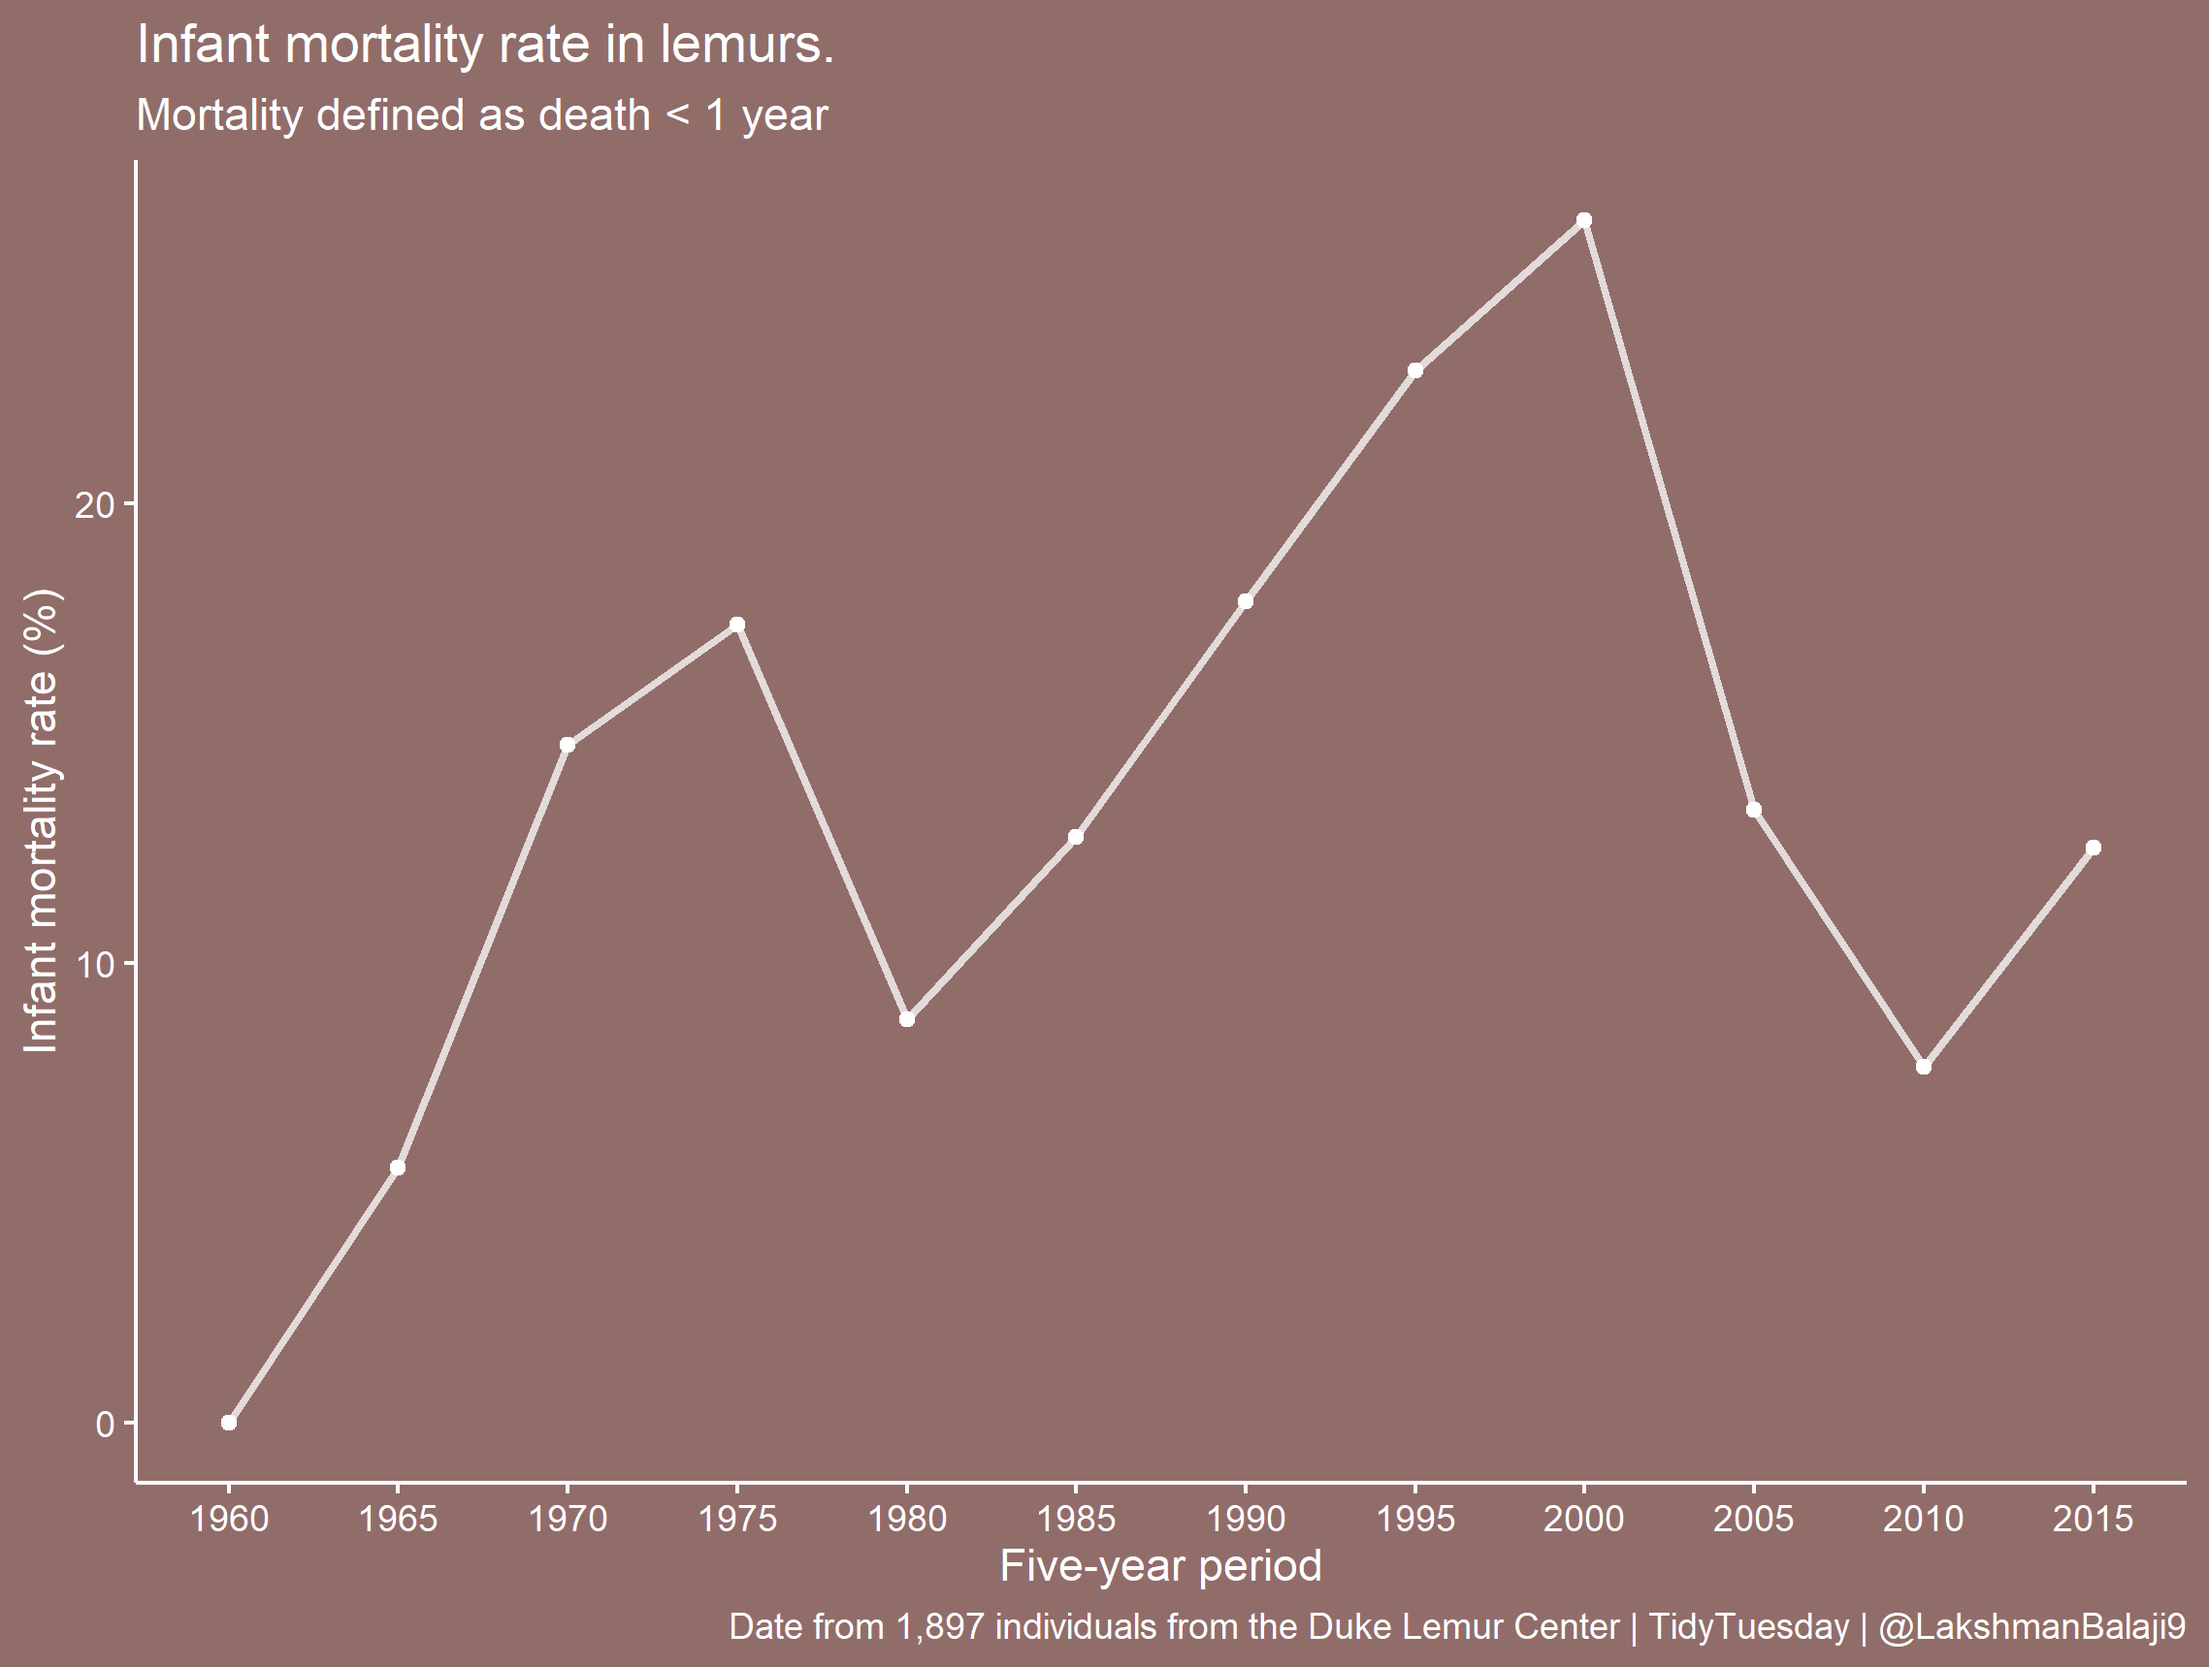
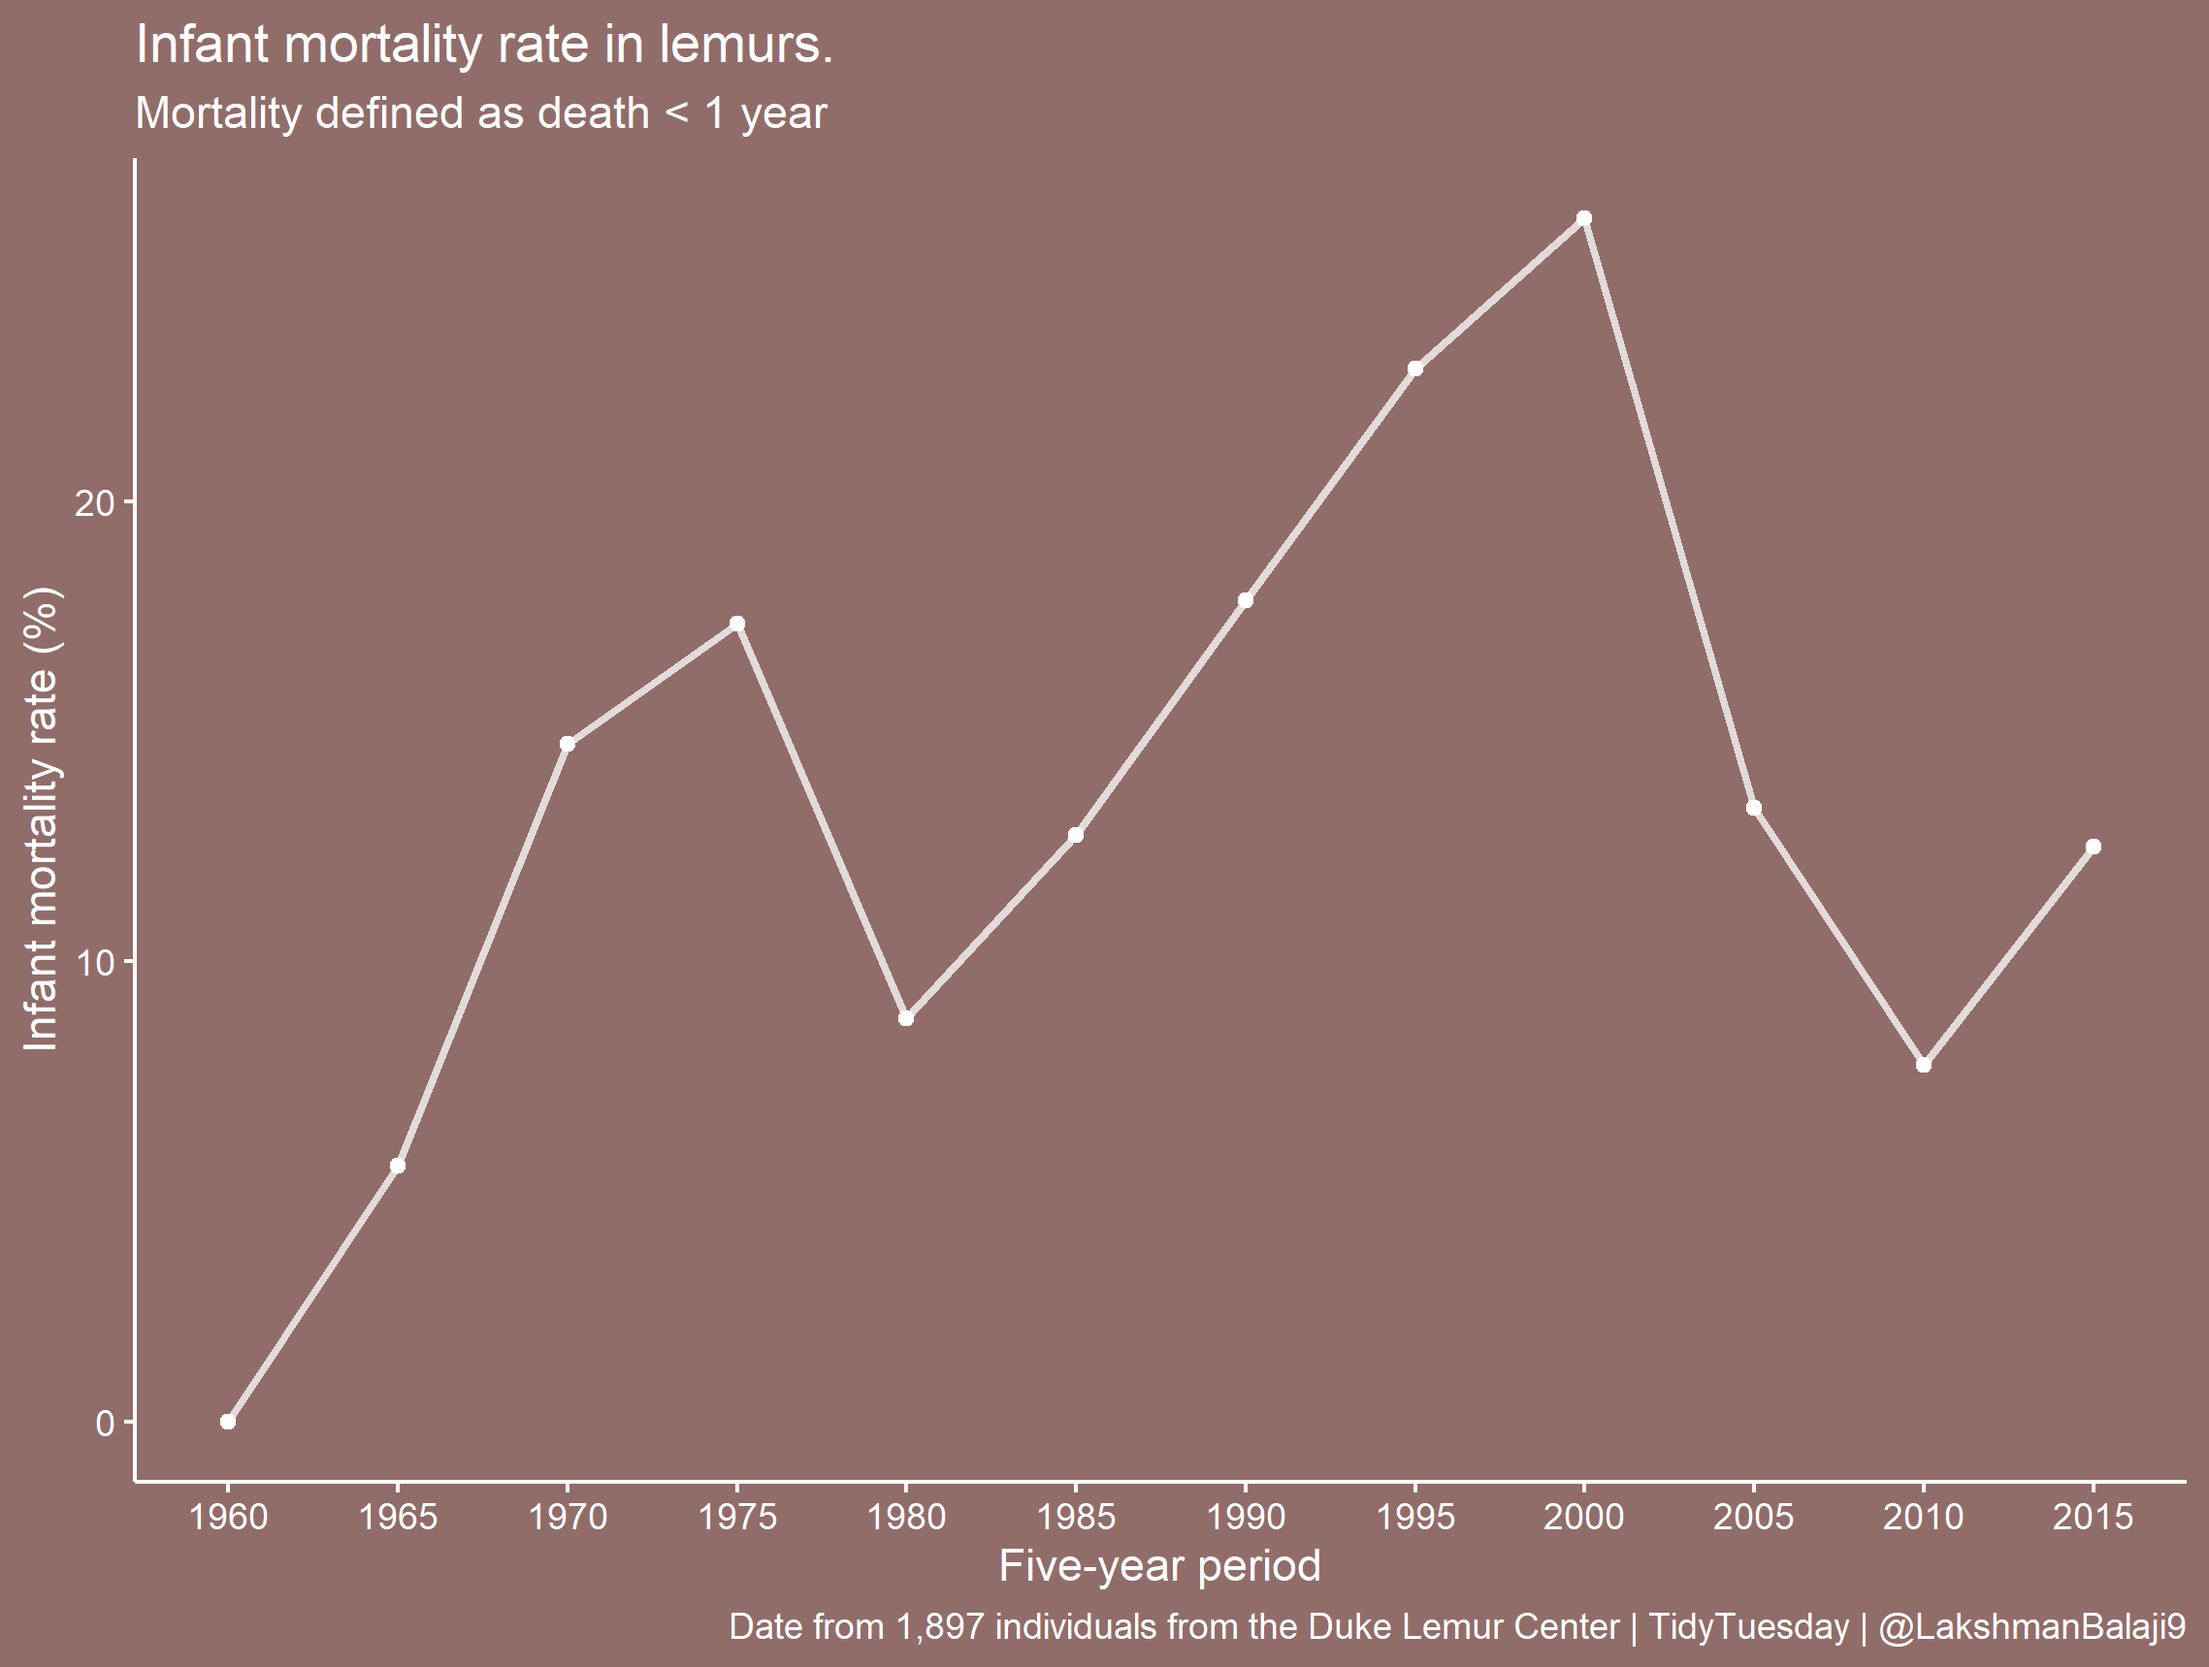
Removed older, out of date markdown document and updated it with fresh one.

diff --git a/2021-08-24/1_lemurs-week35year2021.md b/2021-08-24/1_lemurs-week35year2021.md
@@ -21,7 +21,8 @@ Lakshman Balaji
     mortality rate for lemurs, and see how that changes over time. The
     challenges are mainly going to be figuring how to define infant
     mortality as having occurred, and dealing with missingness in date
-    of birth/date of death.
+    of birth/date of death. The visualization this week is a very simple
+    one.
 
 <!-- end list -->
 
@@ -1714,13 +1715,31 @@ a clear pattern in mortality
 
 ## A simple ggplot visualization
 
-``` r
-ggplot(data = dukemortsum, aes(x = yearcohort, y = mortality *
-    100)) + geom_point() + geom_line() + scale_x_continuous(breaks = c(1:12),
-    labels = c(as.character(seq(1960, 2020, 5))[1:12])) + theme_bw() +
-    labs(x = "Five-year period", y = "Infant mortality rate (%)",
-        title = "Infant mortality rate in lemurs.", subtitle = "Mortality defined as death < 1 year",
-        caption = "Date from 1897 individuals from the Duke Lemur Center | TidyTuesday | @LakshmanBalaji9")
-```
+  - Though looking at the figure below may tempt one to conclude that
+    mortality is increasing, please bear in mind that we have data from
+    only 8 lemurs in the 1960-1964 period, and only 18 lemurs in the
+    1965-1969 period. The infant mortality rates from the 1960s are
+    perhaps not representative of the true mortality at Duke Lemur
+    center. Also, this is just a simple representation of proportions
+    that does not account for changes happening at Duke Lemur Center.
+  - All we can say is that infant mortality rate hovers between 10-20
+    percent for each five-year period from 1960 upto 2018.
 
-![](1_lemurs-week35year2021_files/figure-gfm/Infant%20mortality-1.png)<!-- -->
+<!-- end list -->
+
+``` r
+p <- ggplot(data = dukemortsum, aes(x = yearcohort, y = mortality *
+    100)) + geom_point(color = "white", size = 1.5) + geom_line(color = "white",
+    size = 0.9, alpha = 0.75) + scale_x_continuous(breaks = c(1:12),
+    labels = c(as.character(seq(1960, 2020, 5))[1:12])) + theme_classic() +
+    theme(panel.background = element_rect(fill = "#916d6a", color = "#916d6a"),
+        plot.background = element_rect(fill = "#916d6a", color = "#916d6a"),
+        axis.title = element_text(color = "white"), axis.text = element_text(color = "white"),
+        axis.ticks = element_line(color = "white"), axis.line = element_line(color = "white"),
+        plot.title = element_text(color = "white"), plot.subtitle = element_text(color = "white"),
+        plot.caption = element_text(color = "white")) + labs(x = "Five-year period",
+    y = "Infant mortality rate (%)", title = "Infant mortality rate in lemurs.",
+    subtitle = "Mortality defined as death < 1 year", caption = "Date from 1,897 individuals from the Duke Lemur Center | TidyTuesday | @LakshmanBalaji9")
+
+ggsave("2_mortalityrateinlemurs.png", p, width = 7.59, height = 5.73)
+```
